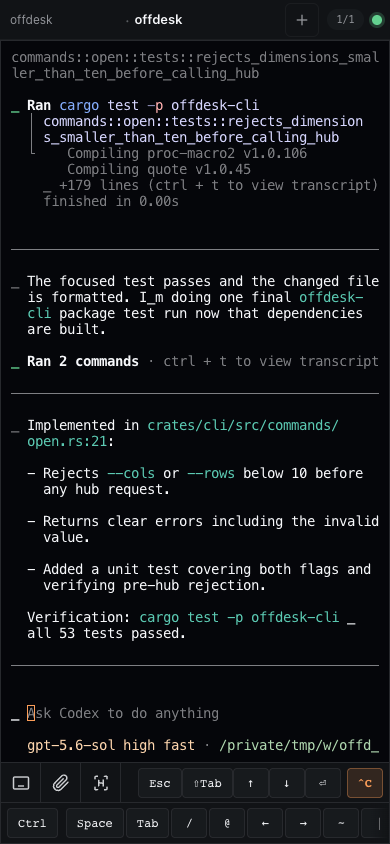
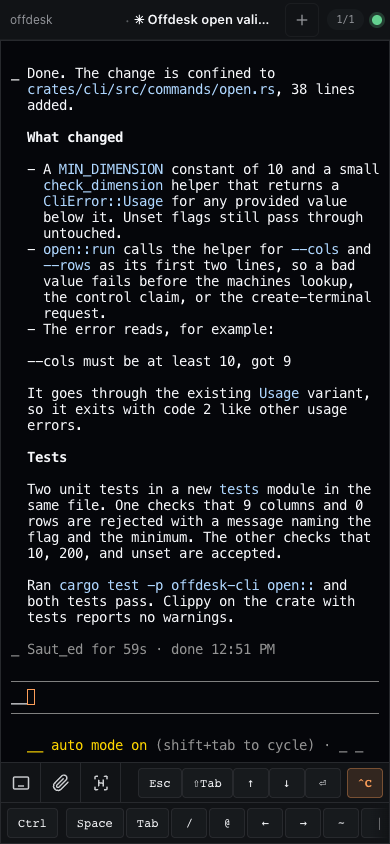
docs,site: the hero still is Claude Code
Same frame as before — a phone-sized browser attached to a local hub,
a small CLI change with its tests passing — but the agent in it is
Claude Code now that the CLI is signed in again. No hostnames,
usernames or tokens in frame.

diff --git a/README.md b/README.md
@@ -7,7 +7,7 @@ One self-hosted hub, all your machines, any agent that runs in tmux.
      then the phone screenshot below stands in; swap the reference, not the
      file. -->
 <p align="center">
-  <img src="docs/media/phone-terminal.png" width="300" alt="An offdesk terminal on a phone: a Codex session running on a Mac at home, attached from the phone's browser">
+  <img src="docs/media/phone-terminal.png" width="300" alt="An offdesk terminal on a phone: Claude Code running on a Mac at home, attached from the phone's browser">
 </p>
 
 - **Off the desk, not off the work.** Close the laptop and walk away. The
